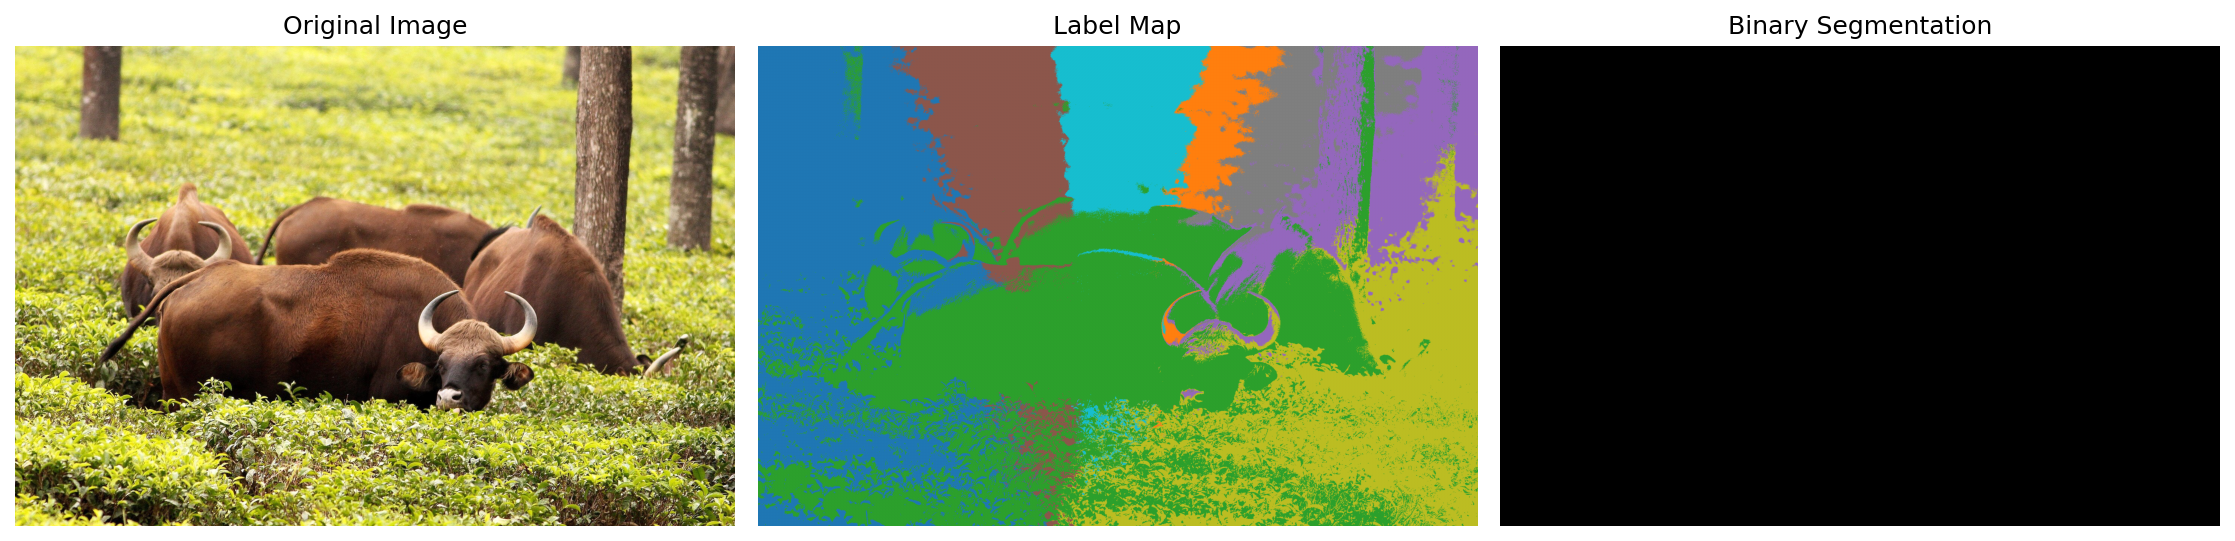
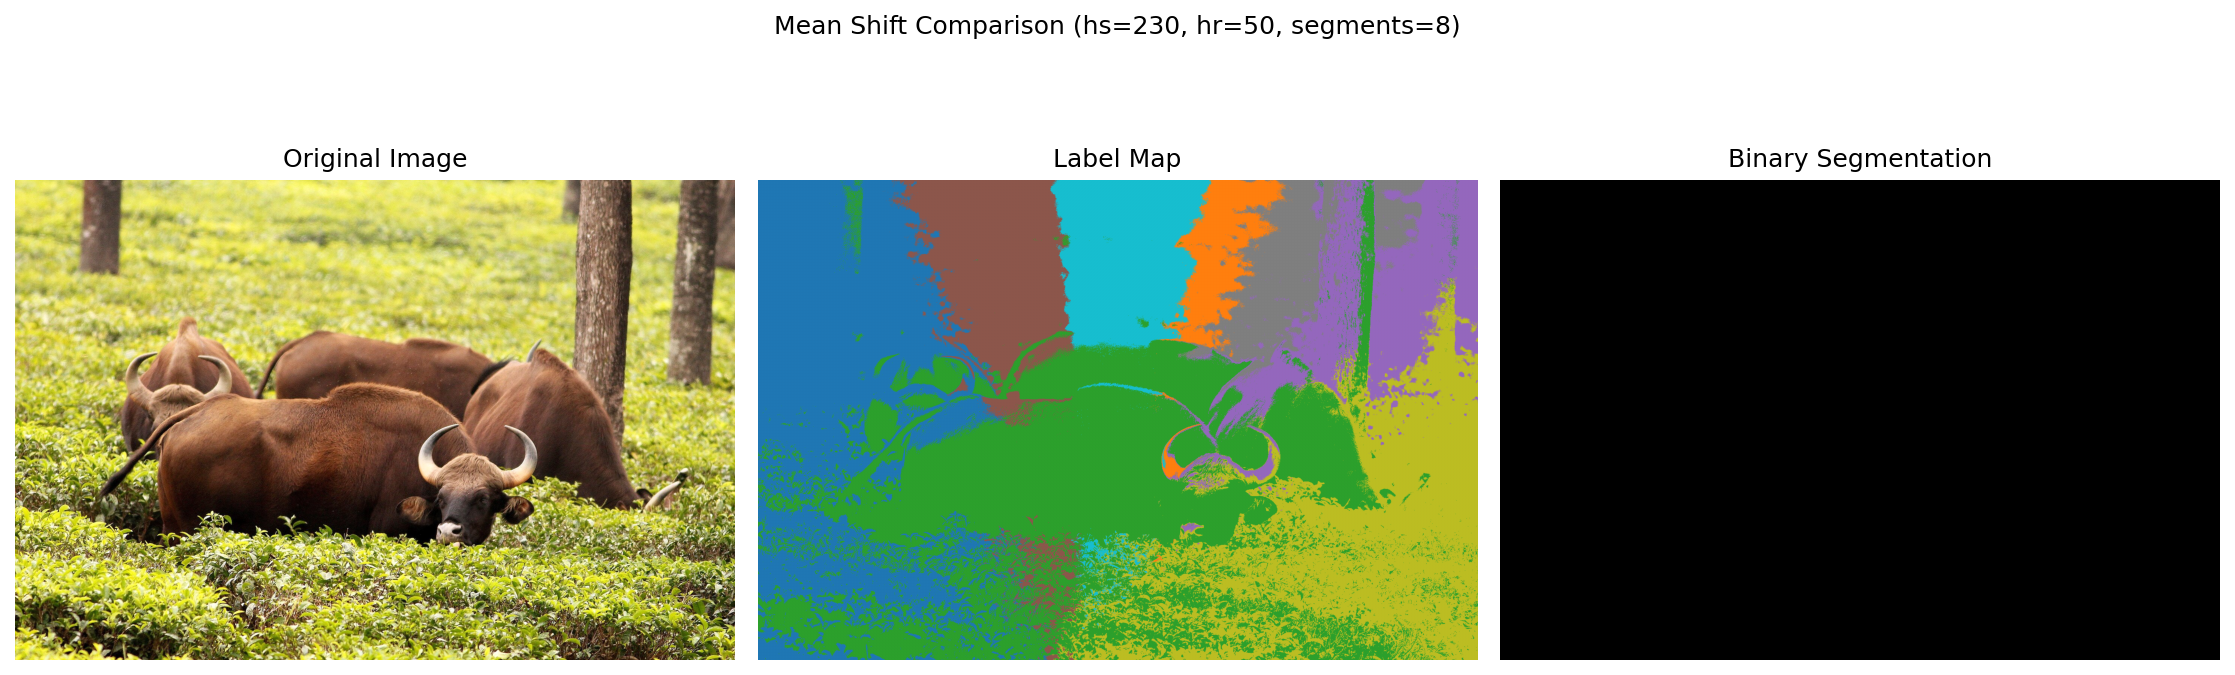
Adding outputs

diff --git a/part1/a.py b/part1/a.py
@@ -89,21 +89,22 @@ def save_outputs(image, segmented_image, labels, image_path, out_dir, alpha=0.3)
     print(f"Saved outputs to '{out_dir}/'")
     return overlay
 
-def main(image_path):
+def main(image_path, hs, hr):
     image = load_image(image_path)
-    hs = 600
-    hr = 14
+    # hs = 600
+    # hr = 14
 
     labels, segmented_image = mean_shift(image, hs, hr)
     boundaries = create_segment_boundaries(image, labels)
     output_dir = "outputs/part1/" + image_path.split('/')[-1].split('.')[0]
     save_outputs(image, segmented_image, labels, image_path, output_dir)
     binary_segmentation = binary_from_labels(labels)
+    num_segments = len(np.unique(labels))
     Image.fromarray(binary_segmentation).save(
         os.path.join(output_dir, "binary_segmentation.png")
     )
     Image.fromarray(boundaries).save(os.path.join(output_dir, "boundaries.png"))
-    print("Number of segments:", len(np.unique(labels)))
+    print("Number of segments:", num_segments)
 
     plt.figure(figsize=(15, 5))
 
@@ -122,7 +123,10 @@ def main(image_path):
     plt.title("Binary Segmentation")
     plt.axis("off")
 
-    plt.tight_layout()
+    plt.suptitle(
+        f"Mean Shift Comparison (hs={hs}, hr={hr}, segments={num_segments})"
+    )
+    plt.tight_layout(rect=[0, 0, 1, 0.94])
     plt.savefig(os.path.join(output_dir, "input_and_segmentation.png"),
                 bbox_inches="tight", dpi=150)
     plt.show()
@@ -137,7 +141,7 @@ def main(image_path):
     plt.show()
 
 if __name__ == "__main__":
-    if len(sys.argv) != 2:
-        print("Usage: python a.py <image_path>")
+    if len(sys.argv) != 4:
+        print("Usage: python a.py <image_path> hs hr")
         sys.exit(1)
-    main(sys.argv[1])
+    main(sys.argv[1], hs=int(sys.argv[2]), hr=int(sys.argv[3]))
